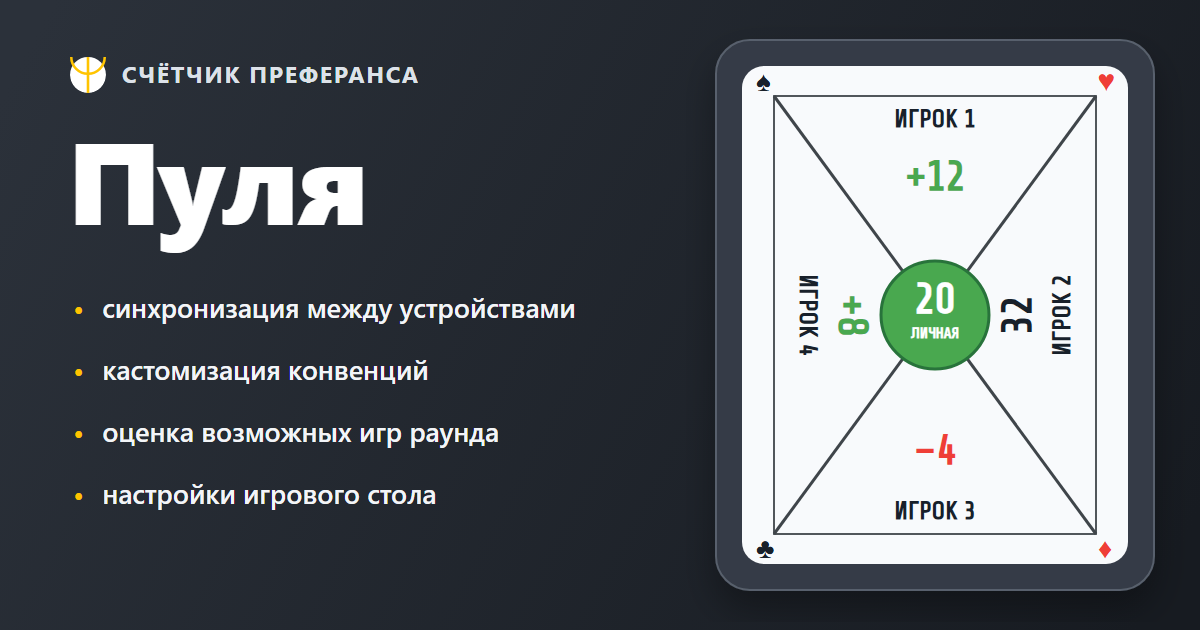
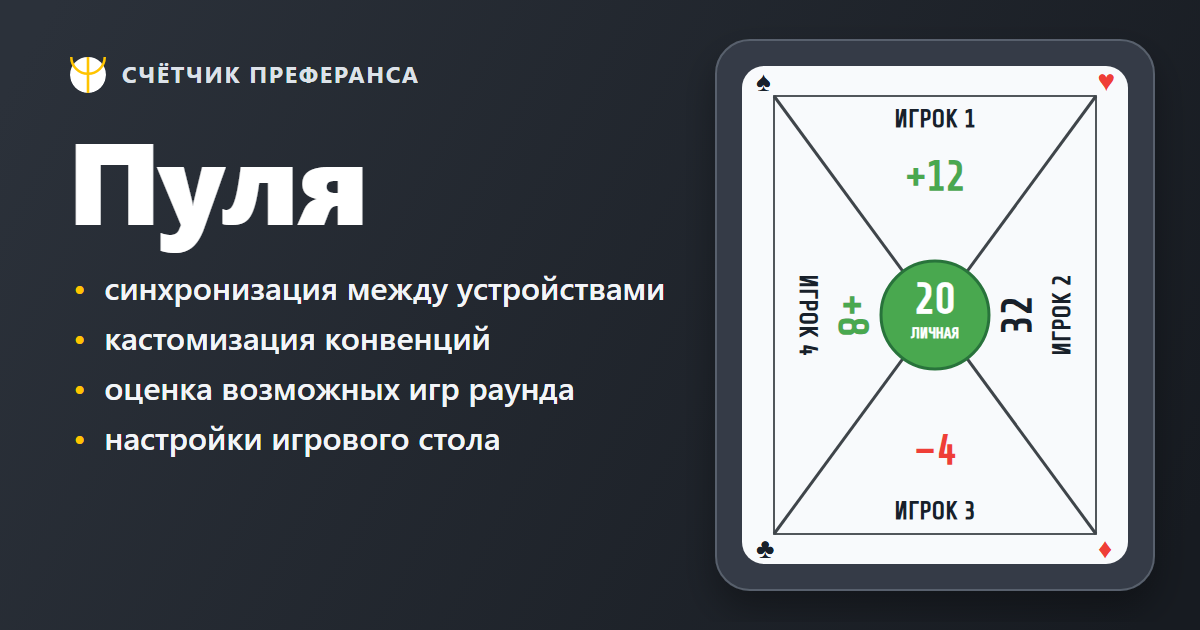
Add shared game preview landing page

Changed region(s): [[0.0617, 0.4222, 0.555, 0.7238], [0.0617, 0.754, 0.37, 0.8143]]

diff --git a/game.html b/game.html
@@ -1,0 +1,55 @@
+<!doctype html>
+<html lang="ru">
+<head>
+  <meta charset="utf-8">
+  <meta name="viewport" content="width=device-width, initial-scale=1">
+  <meta name="robots" content="noindex,follow">
+  <meta name="theme-color" content="#232a33">
+  <meta name="description" content="Подключитесь к общей партии в приложении «Пуля преферанса». Счёт и записи синхронизируются между устройствами.">
+  <link rel="canonical" href="https://mathfewmatthews-dev.github.io/preferans-score/game.html">
+  <meta property="og:type" content="website">
+  <meta property="og:site_name" content="Пуля преферанса">
+  <meta property="og:locale" content="ru_RU">
+  <meta property="og:title" content="Подключиться к общей партии">
+  <meta property="og:description" content="Откройте общую партию в приложении «Пуля преферанса». Счёт синхронизируется между устройствами.">
+  <meta property="og:url" content="https://mathfewmatthews-dev.github.io/preferans-score/game.html">
+  <meta property="og:image" content="https://mathfewmatthews-dev.github.io/preferans-score/game-preview.png">
+  <meta property="og:image:type" content="image/png">
+  <meta property="og:image:width" content="1200">
+  <meta property="og:image:height" content="630">
+  <meta property="og:image:alt" content="Пуля преферанса — подключиться к общей партии">
+  <meta name="twitter:card" content="summary_large_image">
+  <meta name="twitter:title" content="Подключиться к общей партии">
+  <meta name="twitter:description" content="Откройте общую партию в приложении «Пуля преферанса». Счёт синхронизируется между устройствами.">
+  <meta name="twitter:image" content="https://mathfewmatthews-dev.github.io/preferans-score/game-preview.png">
+  <meta name="twitter:image:alt" content="Пуля преферанса — подключиться к общей партии">
+  <title>Подключиться к общей партии — Пуля преферанса</title>
+  <link rel="icon" type="image/svg+xml" href="logo.svg">
+  <style>
+    :root { color-scheme: dark; font-family: "Segoe UI", Arial, sans-serif; }
+    body { min-height: 100vh; display: grid; place-items: center; margin: 0; color: #fff; background: #232a33; }
+    main { max-width: 560px; padding: 32px; text-align: center; }
+    a { display: inline-block; margin-top: 12px; padding: 14px 22px; color: #18202a; font-weight: 700; text-decoration: none; background: #fff; border-radius: 999px; }
+  </style>
+</head>
+<body>
+  <main>
+    <h1>Подключение к общей партии</h1>
+    <p>Переходим в приложение «Пуля преферанса».</p>
+    <a id="openGameLink" href="./">Открыть приложение</a>
+  </main>
+  <script>
+    (() => {
+      const params = new URLSearchParams(window.location.search);
+      const gameId = String(params.get("game") || params.get("g") || window.location.hash.slice(1) || "").trim();
+      const target = new URL("./", window.location.href);
+      target.search = "";
+      target.hash = "";
+      if (/^[A-Za-z0-9_-]{16,64}$/.test(gameId)) target.searchParams.set("game", gameId);
+      const href = target.href;
+      document.getElementById("openGameLink").href = href;
+      window.location.replace(href);
+    })();
+  </script>
+</body>
+</html>

diff --git a/tests/e2e/layout.spec.ts b/tests/e2e/layout.spec.ts
@@ -383,7 +383,7 @@ test("metadata and social preview describe the public app", async ({ page, reque
   });
 
   expect(metadata).toEqual({
-    description: "Удобный счётчик преферанса для записи пули, горы и вистов по конвенциям Сочи, Питер, Ростов и собственным настройкам.",
+    description: "Счётчик преферанса для онлайн-записи и игры по конвенциям Сочи, Питер, Ростов и собственным настройкам.",
     canonical: "https://mathfewmatthews-dev.github.io/preferans-score/",
     ogType: "website",
     ogSiteName: "Пуля преферанса",
@@ -404,6 +404,33 @@ test("metadata and social preview describe the public app", async ({ page, reque
   const image = await imageResponse.body();
   expect(image.readUInt32BE(16)).toBe(1200);
   expect(image.readUInt32BE(20)).toBe(630);
+});
+
+test("shared games use their own preview page and return to the synchronized app", async ({ page, context, request }) => {
+  const gameId = "ABCDEFGHIJKLMNOP";
+  const landingResponse = await request.get(`/game.html?game=${gameId}`);
+  expect(landingResponse.ok()).toBe(true);
+  const landingHtml = await landingResponse.text();
+  expect(landingHtml).toContain('<meta property="og:title" content="Подключиться к общей партии">');
+  expect(landingHtml).toContain("https://mathfewmatthews-dev.github.io/preferans-score/game-preview.png");
+  expect(landingHtml).not.toContain("social-preview.png");
+
+  const imageResponse = await request.get("/game-preview.png");
+  expect(imageResponse.ok()).toBe(true);
+  expect(imageResponse.headers()["content-type"]).toContain("image/png");
+  const image = await imageResponse.body();
+  expect(image.readUInt32BE(16)).toBe(1200);
+  expect(image.readUInt32BE(20)).toBe(630);
+
+  await page.goto(`/game.html?game=${gameId}`);
+  await expect(page).toHaveURL(new RegExp(`[?&]game=${gameId}(?:$|[&#])`));
+  expect(new URL(page.url()).pathname).not.toContain("game.html");
+
+  await openCleanApp(page);
+  await startGame(page);
+  await context.grantPermissions(["clipboard-read", "clipboard-write"]);
+  await page.locator("#floatingShareButton").click();
+  await expect.poll(() => page.evaluate(() => navigator.clipboard.readText())).toMatch(/\/game\.html\?game=[A-Za-z0-9_-]{16,64}$/);
 });
 
 test("empty history reaches the table bottom and remains usable after a record", async ({ page }) => {

diff --git a/index.html b/index.html
@@ -4,13 +4,13 @@
   <meta charset="utf-8">
   <meta name="viewport" content="width=device-width, initial-scale=1">
   <meta name="theme-color" content="#ffffff">
-  <meta name="description" content="Удобный счётчик преферанса для записи пули, горы и вистов по конвенциям Сочи, Питер, Ростов и собственным настройкам.">
+  <meta name="description" content="Счётчик преферанса для онлайн-записи и игры по конвенциям Сочи, Питер, Ростов и собственным настройкам.">
   <link rel="canonical" href="https://mathfewmatthews-dev.github.io/preferans-score/">
   <meta property="og:type" content="website">
   <meta property="og:site_name" content="Пуля преферанса">
   <meta property="og:locale" content="ru_RU">
   <meta property="og:title" content="Пуля преферанса">
-  <meta property="og:description" content="Удобный счётчик преферанса для записи пули, горы и вистов по конвенциям Сочи, Питер, Ростов и собственным настройкам.">
+  <meta property="og:description" content="Счётчик преферанса для онлайн-записи и игры по конвенциям Сочи, Питер, Ростов и собственным настройкам.">
   <meta property="og:url" content="https://mathfewmatthews-dev.github.io/preferans-score/">
   <meta property="og:image" content="https://mathfewmatthews-dev.github.io/preferans-score/social-preview.png">
   <meta property="og:image:type" content="image/png">
@@ -19,7 +19,7 @@
   <meta property="og:image:alt" content="Пуля преферанса — счётчик пули, горы и вистов">
   <meta name="twitter:card" content="summary_large_image">
   <meta name="twitter:title" content="Пуля преферанса">
-  <meta name="twitter:description" content="Удобный счётчик преферанса для записи пули, горы и вистов по конвенциям Сочи, Питер, Ростов и собственным настройкам.">
+  <meta name="twitter:description" content="Счётчик преферанса для онлайн-записи и игры по конвенциям Сочи, Питер, Ростов и собственным настройкам.">
   <meta name="twitter:image" content="https://mathfewmatthews-dev.github.io/preferans-score/social-preview.png">
   <meta name="twitter:image:alt" content="Пуля преферанса — счётчик пули, горы и вистов">
   <meta name="apple-mobile-web-app-capable" content="yes">
@@ -66,7 +66,7 @@
       if (meta) meta.setAttribute("content", colors.header);
     })();
   </script>
-  <link rel="stylesheet" href="styles.css?v=74">
+  <link rel="stylesheet" href="styles.css?v=75">
 </head>
 <body>
   <header class="app-header">
@@ -789,6 +789,6 @@
   <script src="https://www.gstatic.com/firebasejs/10.12.5/firebase-firestore-compat.js"></script>
   <script src="firebase-config.js"></script>
   <script src="qr-creator.js?v=57"></script>
-  <script src="app.js?v=74"></script>
+  <script src="app.js?v=75"></script>
 </body>
 </html>

diff --git a/app.js b/app.js
@@ -4196,13 +4196,11 @@ function remoteSaveErrorMessage(error) {
 function currentGameUrl() {
   if (state.gameId) setGameUrl(state.gameId);
   if (!state.gameId) return window.location.href;
-  const base = window.location.protocol === "file:"
+  const appUrl = window.location.protocol === "file:"
     ? "https://mathfewmatthews-dev.github.io/preferans-score/"
     : `${window.location.origin}${window.location.pathname}`;
-  const url = new URL(base, window.location.href);
-  url.search = "";
-  url.hash = "";
-  url.hash = state.gameId;
+  const url = new URL("game.html", new URL("./", appUrl));
+  url.searchParams.set("game", state.gameId);
   return url.href;
 }
 

diff --git a/sw.js b/sw.js
@@ -1,11 +1,14 @@
-const CACHE_NAME = "preference-pwa-v74";
+const CACHE_NAME = "preference-pwa-v75";
 const APP_SHELL = [
   "./",
   "index.html",
+  "game.html",
   "styles.css",
   "app.js",
   "qr-creator.js",
   "logo.svg",
+  "social-preview.png",
+  "game-preview.png",
   "Pwa.svg",
   "manifest.webmanifest",
   "firebase-config.js",